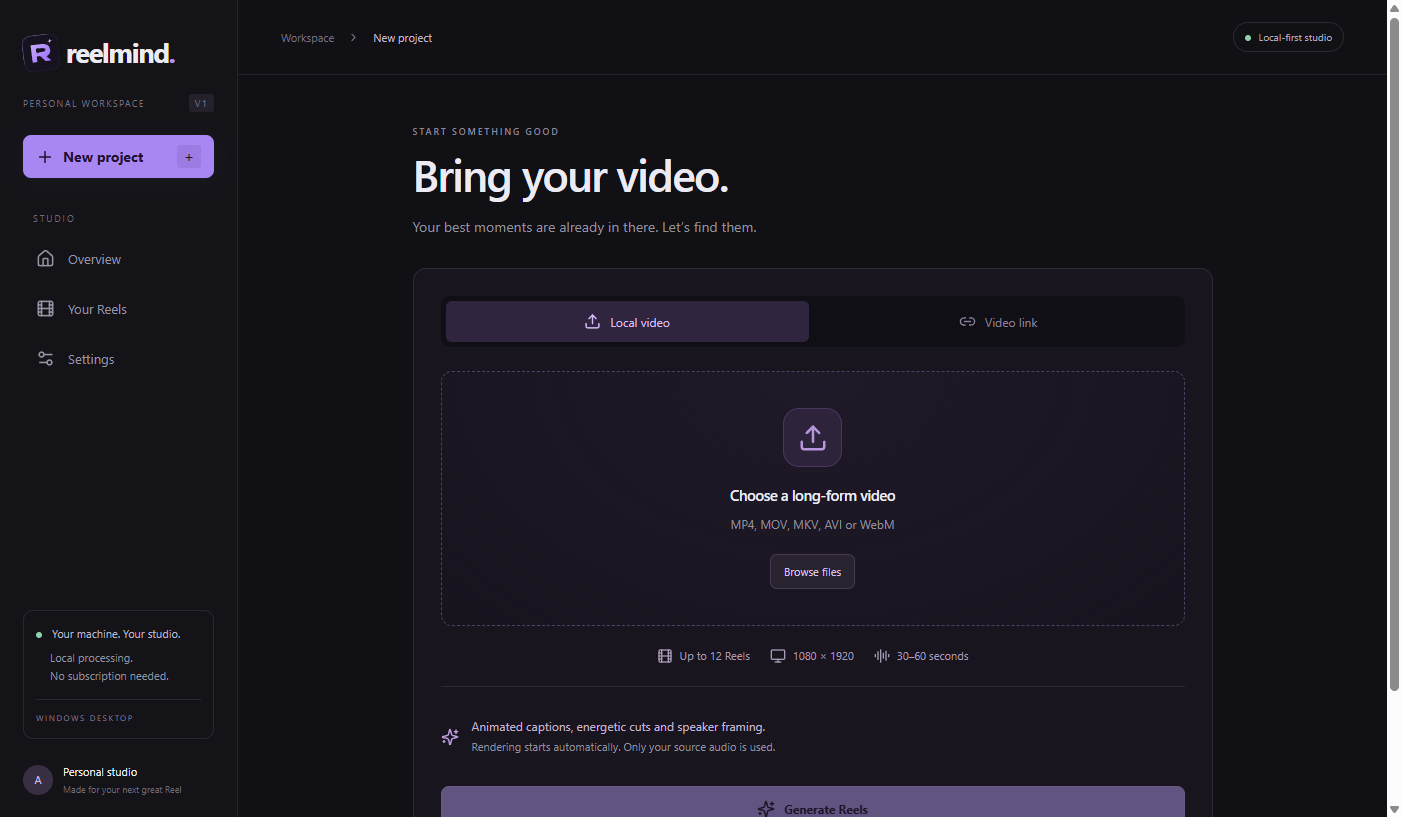
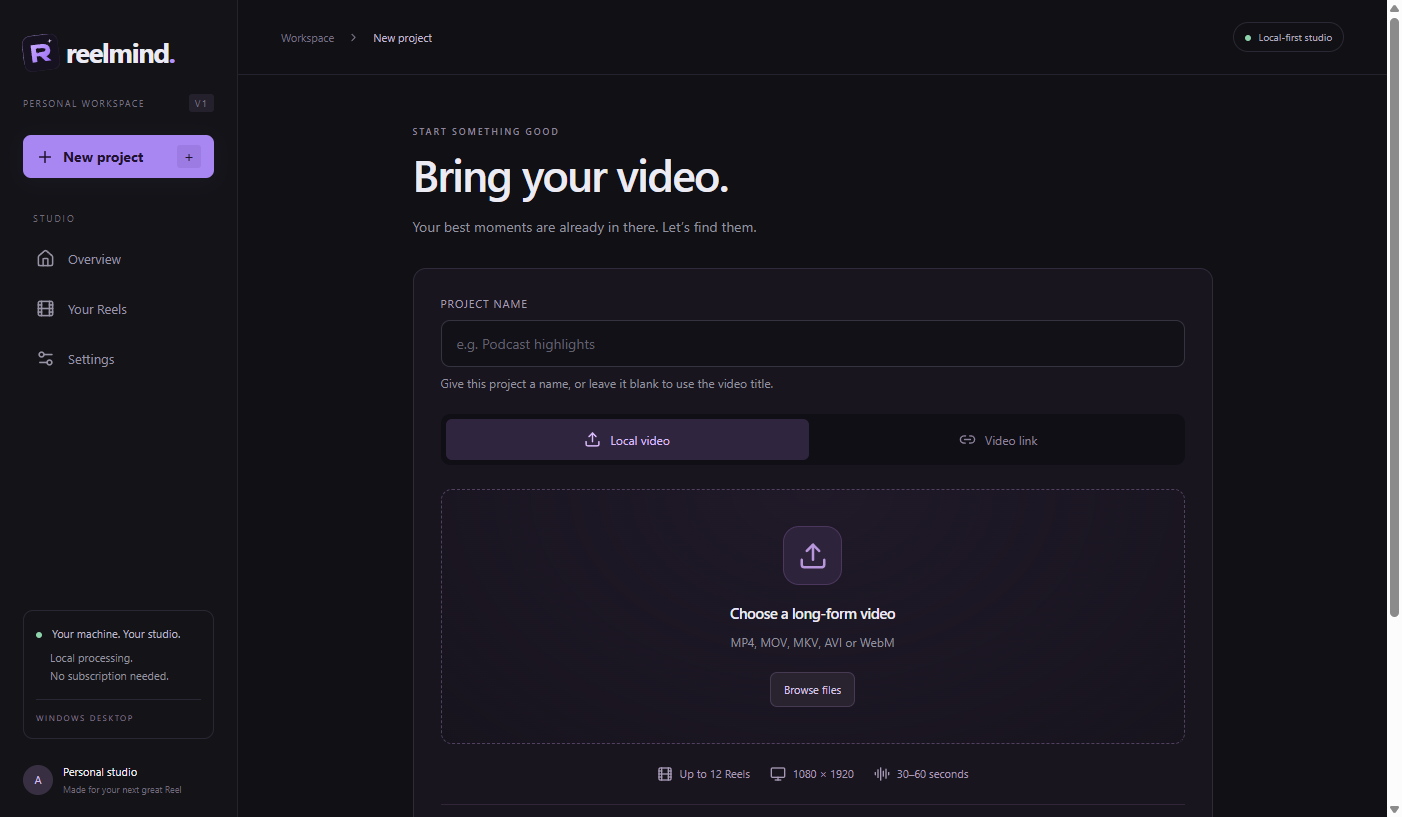
docs: audit current build and plan local model upgrade

diff --git a/docs/MINILM_TURBO_PLAN.md b/docs/MINILM_TURBO_PLAN.md
@@ -1,0 +1,170 @@
+# REELMIND: MiniLM and optional Whisper Turbo
+
+Implementation plan · 23 September 2026 · upgrade implementation has not started.
+
+## 1. Current build audit
+
+The v0.1.1 Windows prerelease is published with its Setup EXE. v0.1.0 is still available. The current source includes project names, an in-progress/recovery project list, Windows taskbar progress, provider fallback messages, GPU-to-CPU speech fallback, and encoder fallback.
+
+Verified during this audit:
+
+- The existing 19 automated tests and TypeScript check pass.
+- The packaged app self-test passes outside the restricted test runner: renderer, local runtime, and worker imports are ready.
+- The source build and desktop smoke check pass for the bridge, Home, New Project, and Settings. The project-name input was visually checked in the captured app screen.
+- An eight-second synthetic speech sample requested GPU transcription, fell back to CPU, and produced a valid transcript with three segments.
+- Both published installers are present on GitHub. The source repository is separate from installer assets.
+
+Audit findings:
+
+- Fixed in source: leaving the project name blank previously locked a YouTube project to “Linked video.” Unnamed new projects now display the detected source title; custom names remain independent. The existing v0.1.1 installer predates this fix.
+- GPU encoding uses NVENC when available. Full GPU speech inference is **not** available on this machine: CUDA model construction succeeded, but inference reported a missing cuBLAS library. CPU fallback was verified. Neither CPU video filters nor speaker/face analysis have become GPU workloads.
+- The taskbar progress call is connected to active job updates and clears when no job is running. Its visual appearance on the Windows taskbar has not been manually verified in this audit.
+- Real multilingual quality, Turbo performance, and a fresh full-video render/save run remain acceptance work. Synthetic tests are not evidence of speech accuracy or editorial quality.
+- The release publisher currently replaces an existing asset with the same name. Before the next publication, make it refuse conflicting assets and reuse identical ones; existing releases must remain intact.
+
+## 2. Locked scope and defaults
+
+- Windows x64; personal use; no paid AI requirement.
+- Whisper small remains the installed default and transcription fallback.
+- MiniLM runs locally to remove semantically repetitive candidates. It does not score hooks, invent clips, translate captions, or replace Gemini → OpenRouter → local discovery.
+- Whisper large-v3-turbo is optional, downloaded only after the user requests it, and initially runs on CPU INT8.
+- Preserve source-language captions, word timestamps, source audio, 30–60-second exports, and a maximum of 12 clips. Fewer are valid.
+- No pyannote, DeepFilterNet, Remotion, PaddleOCR, or NVIDIA-library bundling in this upgrade.
+- Deliver one new Windows prerelease after the acceptance checks. Keep v0.1.0 and v0.1.1 available.
+
+## 3. Model assets and runtime
+
+| Model | Distribution | Use |
+| --- | --- | --- |
+| Whisper small | Existing installer bundle | Default transcription and recovery option |
+| Multilingual MiniLM-L12-v2 | Bundle one quantized ONNX file plus tokenizer/configuration files | Candidate similarity on CPU |
+| Whisper large-v3-turbo | Optional download into managed app data | User-selected transcription on CPU INT8 |
+
+For Windows x64, start with `onnx/model_quint8_avx2.onnx`, rather than an ARM64 or AVX512-targeted variant. The upstream file listing gives about 118 MB for its weights; `tokenizer.json` adds about 9 MB. Allow for ONNX Runtime and small configuration/license files too: 118 MB is not the complete installer increase. Confirm the supported CPU baseline in a packaged inference test. If inference is unavailable on a machine, retain text-based deduplication. [MiniLM assets](https://huggingface.co/sentence-transformers/paraphrase-multilingual-MiniLM-L12-v2/tree/main/onnx), [tokenizer files](https://huggingface.co/sentence-transformers/paraphrase-multilingual-MiniLM-L12-v2/tree/main).
+
+Use CPU `onnxruntime`, the existing `tokenizers` dependency, and NumPy in the local worker. Pin compatible versions. Avoid bringing PyTorch or the full Sentence Transformers stack into the installer just to run embeddings.
+
+Create a model manifest in source with repository, immutable revision, approved filenames, exact byte sizes, SHA-256 values, license, and model/algorithm version. Download only manifest-listed files. Resolve and verify hashes during implementation; do not invent values or use a moving `main` reference for release downloads.
+
+The Turbo repository contains FP16 weights that CTranslate2 can load using a selected compute type. Its model is approximately 1.62 GB, with tokenizer, vocabulary, and configuration files in addition. Bundle none of these Turbo files in Setup. [Turbo files](https://huggingface.co/dropbox-dash/faster-whisper-large-v3-turbo/tree/main), [conversion details](https://huggingface.co/dropbox-dash/faster-whisper-large-v3-turbo).
+
+## 4. Semantic clip selection
+
+### Pipeline placement
+
+```mermaid
+flowchart LR
+    A[Whole-video candidate discovery] --> B[Validate scores, timings and overlap]
+    B --> C[Global candidate ranking]
+    C --> D[MiniLM diversity pass]
+    D --> E[Final selection: at most 12]
+    D -. inference failure .-> F[Existing text similarity filter]
+    F --> E
+```
+
+Refactor the current selection helpers so they do not permanently cut the candidate pool to 12 before semantic comparison. Keep a bounded pool, initially up to 96 high-quality non-overlapping candidates, drawn from the complete video. Finalize the 12-clip ceiling after semantic filtering. Use stable IDs for cloud ranking and retain canonical candidate content; model responses must not silently rewrite transcript-derived timestamps or wording.
+
+For each candidate:
+
+1. Extract transcript words within its source time range. Use actual spoken text, not generated hook/context summaries.
+2. Tokenize locally with the bundled tokenizer. Respect the model's 128-token sequence limit, including special tokens. Divide longer clip text into consecutive sentence/token windows; never silently compare only the beginning of a clip. [Sequence configuration](https://huggingface.co/sentence-transformers/paraphrase-multilingual-MiniLM-L12-v2/blob/main/sentence_bert_config.json).
+3. Run bounded CPU batches. Mean-pool token embeddings using the attention mask so padding contributes no weight. Aggregate long-clip windows by their content-token counts, then L2-normalize the final 384-dimensional vector. Reject empty, non-finite, zero-norm, or incorrectly shaped results. [Model and pooling guidance](https://huggingface.co/sentence-transformers/paraphrase-multilingual-MiniLM-L12-v2).
+4. Walk candidates from strongest to weakest. Compare each vector with already selected candidates using cosine similarity. Drop a substantially repeated idea and retain the stronger candidate.
+5. Start evaluation around a conservative similarity threshold of 0.88, then calibrate it against labeled English, Hindi/Hinglish, Japanese, translation, and same-topic/different-story pairs. Do not ship an untested threshold as a universal guarantee.
+
+Keep the quality threshold, word-boundary adjustments, duration checks, and time-overlap rejection. If embeddings fail, discard the incomplete semantic result, report the fallback, and run the existing text-similarity selection over the candidate pool. A user pause/cancel must stop work rather than trigger another fallback attempt.
+
+Store embeddings only inside the project's temporary workspace. Cache identity includes the transcript hash, canonical candidate ranges, model revision, tokenizer revision, and pooling/selection version. Recompute dependent artifacts if any of those change.
+
+## 5. Turbo choice and download experience
+
+Settings gains a transcription selector:
+
+- **Standard (Whisper small)** — installed and selected by default.
+- **Higher accuracy (Whisper turbo)** — optional larger model; may be slower on CPU. Better accuracy is something to measure, not a promise for every recording.
+
+Selecting an uninstalled Turbo model shows the expected download size, available disk space, and a Download action. Show Downloading, Verifying, Ready, Interrupted, and Failed states with progress and retry/cancel actions. Do not change the saved mode to Turbo until installation verifies successfully; cancelling leaves Standard selected.
+
+Implement a model manager owned by the Electron background service:
+
+1. Download only pinned public model assets; no provider API keys or Hugging Face login is required.
+2. Check the remaining manifest size plus a safety margin against free space before starting and during transfer.
+3. Stream into an app-owned staging directory using `.part` files. Never buffer the full model in memory.
+4. Resume interrupted transfers only with a matching artifact identity and valid HTTP range response. If the server returns a full response, restart that file rather than appending corrupt bytes.
+5. Verify every required file's size and SHA-256, parse configuration/tokenizer data, and run a short offline CPU load/inference check.
+6. Promote the complete staged directory atomically on the same volume. Write the Ready marker last. An incomplete directory must never appear installed.
+7. Keep download state across app restarts. Clear abandoned partial downloads after 24 hours of inactivity; a verified installed model does not expire. Keep a working older model available until a replacement verifies.
+
+Keep integrity checks out of the UI's five-second status polling loop. Cache verified model state and revalidate at startup/first use or when file metadata changes.
+
+## 6. Transcription, jobs, and recovery
+
+Add a backward-compatible `transcriptionMode` setting with `standard` as its default. New jobs snapshot the requested mode and model revision when created. Old jobs without a mode are Standard. Later Settings changes affect only new jobs.
+
+The worker receives an explicit verified local model path and device/compute configuration:
+
+- Standard uses the existing small-model path and current GPU/CPU fallback policy.
+- Turbo runs `device=cpu`, `compute_type=int8`, with bounded CPU threads. It must not accidentally inherit Standard's CUDA option.
+- If Turbo cannot load or fails during inference, release the worker/model and retry the transcription stage once with Whisper small on CPU. Handle both Python errors and a crashed worker process in the service.
+- Save both requested and effective model information. Show “Turbo unavailable — continuing with Standard” and retain that entry in the project's fallback history.
+- A successful small-model fallback checkpoint is valid on resume; do not repeatedly retry broken Turbo on every restart. Cancellation is not a model failure.
+
+Write the transcript atomically only after successful completion. Its checkpoint metadata records source/audio identity, requested/effective model, revision, language handling, and worker version. Invalidate framing, candidate, embedding, and render-plan checkpoints when their upstream transcript changes. Do not combine part of a Turbo transcript with part of a small-model transcript.
+
+Keep current word timestamps and multilingual caption behavior. Preserve the existing progress bar and taskbar indicator, and add clear “Comparing candidate ideas” and model download/verification messages. Stage progress and labels must describe actual work.
+
+## 7. Storage and readiness
+
+| Location | Contents | Lifetime |
+| --- | --- | --- |
+| Packaged `resources/runtime/models/` | Whisper small and MiniLM | Installed app lifetime |
+| Managed app data `models/whisper-turbo/<revision>/` | Verified optional Turbo model | Persists across projects and app restarts |
+| Managed app data `model-downloads/` | Download state and partial files | Resume/retry; abandoned partials expire after 24 hours |
+| Project `work/<id>/` | Source copy, audio, transcript, embeddings, analysis, plans | Existing 24-hour completion/interruption policy |
+| Managed `outputs/<id>/` | Unsaved completed Reels | Retained until verified external saving or explicit deletion |
+
+Project cleanup must only traverse that project's workspace and incomplete renders. It must never remove global models. Local source files and saved external Reels remain outside cleanup targets.
+
+Split readiness into core processing readiness, semantic-model availability, and optional Turbo availability. A broken/missing MiniLM model degrades selection to text similarity; missing Turbo never blocks Standard. Packaging verification, however, must fail if the promised MiniLM bundle is missing or corrupt.
+
+## 8. Delivery sequence
+
+1. **Baseline and model contracts:** carry forward the naming fix; add settings/job defaults, manifest types, dependency fingerprints, and explicit per-feature readiness. Harden release publication against accidental replacement.
+2. **MiniLM:** package the chosen ONNX/tokenizer assets, add local embeddings, refactor the candidate pool, and connect semantic deduplication plus text fallback.
+3. **Turbo manager:** implement streamed verified downloads, managed model storage, restart recovery, and Settings states.
+4. **Turbo execution:** snapshot job choices, run CPU INT8, add service-level small-model retry, and validate checkpoint invalidation and cleanup boundaries.
+5. **Acceptance and release:** complete the checks below, refresh screenshots/docs/credits, build and test a new Setup EXE, then publish a new Windows prerelease.
+
+Use separate reviewable commits for these stages and push after their checks pass. The next version number is selected from the release state at publication; do not replace a historical release asset.
+
+## 9. Acceptance and release gates
+
+### Automated checks
+
+- Existing suite, TypeScript, production build, worker syntax, packaged launch, and staged secret scan.
+- Candidate filtering preserves duration, quality, overlap, maximum count, and strongest-candidate retention.
+- Identical text, paraphrases, translated ideas, different topics, and different stories about the same topic. Include long clips where the distinguishing idea comes after token 128.
+- Padding-aware pooling, finite normalized vectors, embedding failure, corrupt model, and text-only fallback.
+- Download interruption/range restart, hash mismatch, insufficient disk, cancellation, duplicate download requests, and offline installed-model loading.
+- Standard default for old settings/jobs; mode snapshot on new jobs; resume with changed Settings; Turbo failure/worker crash retries Standard only once; user cancellation triggers no fallback.
+- Expired project transcripts/embeddings are removed while installed models, original source files, saved Reels, and unsaved finished outputs survive.
+
+### Real-media and Windows checks
+
+Use the same real English, Hindi/Hinglish, Japanese, and mixed-language clips on v0.1.1 and the new build. Keep a small human-reviewed reference transcript and labeled candidate-pair set. Use user-provided or appropriately reusable samples; retain media outside Git.
+
+Record wording errors, word-boundary timing, caption readability, clip diversity, elapsed transcription/render time, and peak memory. Turbo must produce correct-language timed transcripts on the target cases, and any claimed accuracy improvement must be supported by those comparisons. Do not label synthetic speech as real podcast evaluation.
+
+Run a complete local video through selection, rendering, playback, and verified external save. Confirm Standard works offline with cloud disabled; after its one-time download, Turbo must work offline too. Visually check the new Settings flow, named/unnamed projects, fallback history, active-project list, and Windows taskbar progress/clearing.
+
+### Publication
+
+- Package only small + MiniLM; inspect the installer to ensure Turbo is excluded.
+- Include the pinned model sources and their licenses in `THIRD_PARTY.md`, the generated inventory, and bundled notices.
+- Check source history/staged files for credentials and media. Confirm the installer contains no personal profile, API keys, transcripts, or test recordings.
+- Match the installer to its tested source commit and publish its SHA-256. Create the prerelease only after successful verification; preserve existing release assets.
+- Update the README's download link and explain that GitHub source ZIPs require a development build, while Setup includes the normal app runtime.
+
+## 10. Exit condition
+
+The upgrade is complete when a clean Windows install can process locally with Standard, remove semantically repeated candidates, download Turbo on demand, continue through tested fallbacks, resume with the original job's mode, and save playable Reels externally. Publishing remains gated by real-media and Windows checks; the plan itself is not proof that those checks have passed.

diff --git a/README.md b/README.md
@@ -125,6 +125,8 @@ For checks, use `npm test`, `npm run typecheck`, `npm run check:secrets`, and `n
 
 Real multilingual and multi-speaker podcast evaluation is still needed. Speech recognition and active-speaker framing can be wrong around overlapping voices, very short turns, rapid language switching, or scene cuts. Local heuristic ranking is less capable than a strong cloud model; neither mode guarantees a great editorial choice. Public-link support depends on third-party sites and may need tool updates. V1 has no manual caption correction after rendering.
 
+The [MiniLM and optional Whisper Turbo upgrade plan](docs/MINILM_TURBO_PLAN.md) covers semantic deduplication, verified model downloads, per-job transcription choices, and release acceptance checks. These model upgrades are planned, not included in v0.1.1.
+
 ## License, credits, and safety
 
 Copyright **2026 Ayush Kant**. Original REELMIND code and branding are licensed under the [Apache License 2.0](LICENSE). Bundled third-party tools, models, and fonts retain their own licenses; see [NOTICE](NOTICE), [third-party notices](THIRD_PARTY.md), and [redistribution details](THIRD_PARTY_LICENSES.md).
